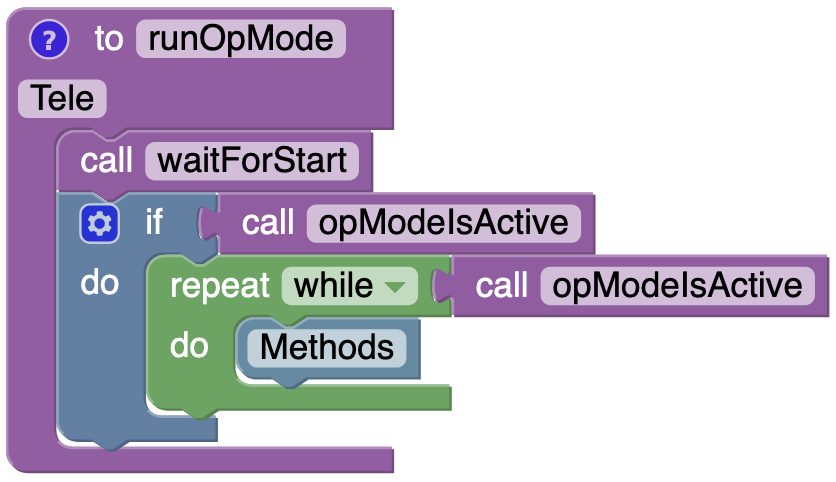
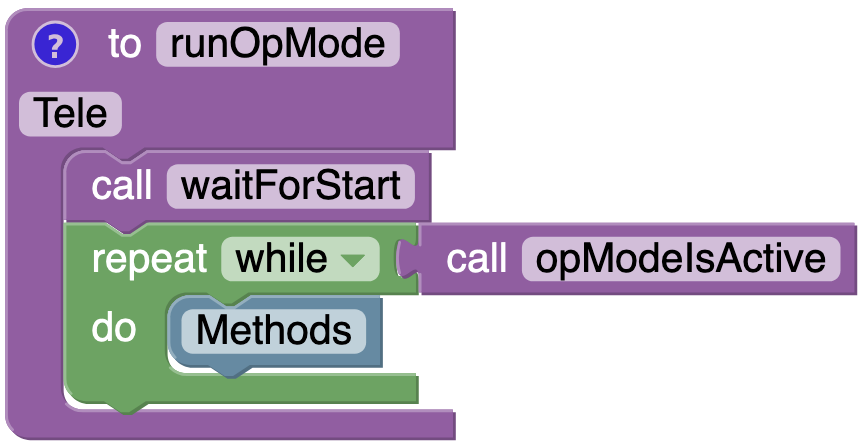
correct teles, use consistent placement of 'Note location..."

diff --git a/docs/gettingstarted.md b/docs/gettingstarted.md
@@ -41,8 +41,6 @@ Before we can dive into coding, follow the Install section of the README
 
     First, create a Linear OpMode- note that easy-ftc only works with Linear OpModes
 
-    <i>Note the locations of Imports, Construction, and Methods</i>
-
 
     <details>
     <summary>TeleOp - Starting Code</summary>
@@ -67,6 +65,9 @@ Before we can dive into coding, follow the Install section of the README
             }
         }
     </details>
+
+
+    <i>Note the locations of Imports, Construction, and Methods</i>
 
 
     Before we can use easy-ftc, we'll need to import the relevant classes. Add the following to 'Imports'
@@ -147,6 +148,9 @@ Before we can dive into coding, follow the Install section of the README
             }
         }
     </details>
+    
+
+    <i>Note the locations of Imports, Construction, and Methods</i>
 
 
     Import Drive
@@ -245,16 +249,20 @@ Before we can dive into coding, follow the Install section of the README
     * Enter a name and use the default sample titled 'BasicOpMode'
     <br>![Create New OpMode](./img/blk/gs/newDialog.png){ width=550 }
     * Press OK
+    * Move the green while loop block to before the blue if statement
+    <br>![While and If](./img/blk/gs/whileAndIf.png){ width=400 }
+    * Delete the blue if statement block
 
     By default, this is a Linear OpMode setup for TeleOp- note that easy-ftc only works with Linear OpModes
-
-    <i>Note the location of Methods</i>
 
 
     <details>
     <summary>TeleOp - Starting Code</summary>
-    ![TeleOp - Starting Code](./img/blk/gs/teleStart.png){ width=500 }
+    ![TeleOp - Starting Code](./img/blk/gs/teleStart.png){ width=435 }
     </details>
+
+
+    <i>Note the location of Methods</i>
 
 
     If you want to control a mechanism in TeleOp, you'll need to add a control() block for that mechanism to 'Methods'. For every loop iteration, this block will read the relevant gamepad inputs and send them to that mechanism's hardware devices, enabling TeleOp control
@@ -271,7 +279,7 @@ Before we can dive into coding, follow the Install section of the README
 
     <details>
     <summary>TeleOp - Final Code</summary>
-    ![TeleOp - Final Code](./img/blk/gs/teleFinal.png){ width=500 }
+    ![TeleOp - Final Code](./img/blk/gs/teleFinal.png){ width=435 }
     </details>
 
 
@@ -290,6 +298,9 @@ Before we can dive into coding, follow the Install section of the README
     <summary>Autonomous - Starting Code</summary>
     ![Autonomous - Starting Code](./img/blk/gs/autoStart.png){ width=350 }
     </details>
+
+
+    <i>Note the location of Methods</i>
 
 
     As autonomous does not allow gamepad control, we'll need to use the command() block to move a mechanism in this match phase. This block commands mechanisms to move as the user specifies, with servo mechanisms taking only one argument (direction) and motor mechanisms taking three (direction, measurement, and power)
